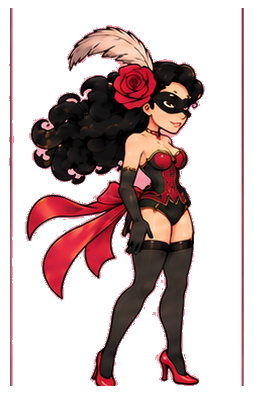
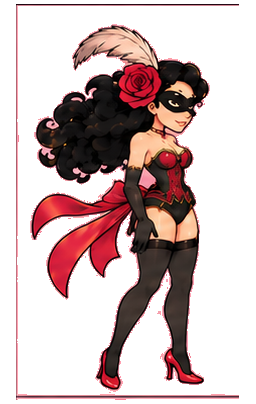
panic-petal: re-crop scarlet crouch (sheet 3) — fix clipped feet
- crop each cell at true separator boundaries (no neighbor overlap)
- exclude 'SCARLET - CROUCH' label strip on left
- frames now 256x404, heels fully visible
- rebuild viewer

Changed region(s): [[0.0276, 0.0, 0.9646, 1.0], [0.3307, 0.3046, 0.3858, 0.3655], [0.4134, 0.3046, 0.4409, 0.335]]

diff --git a/.squid-os/sprite-gen/petal-panic.viewer.html b/.squid-os/sprite-gen/petal-panic.viewer.html
@@ -50,8 +50,8 @@
     </div>
     <div id="bgrow">
       <span>background</span>
-      <input type="color" id="bg" value="#f992a8">
-      <span id="bgval">#f992a8</span>
+      <input type="color" id="bg" value="#f593a3">
+      <span id="bgval">#f593a3</span>
     </div>
     <div id="hint">click an entity &middot; &#8593;/&#8595; next/prev animation &middot; &#8722;/&#43; speed &middot; space play/pause &middot; &#8592;/&#8594; step frame (paused)</div>
   </div>
